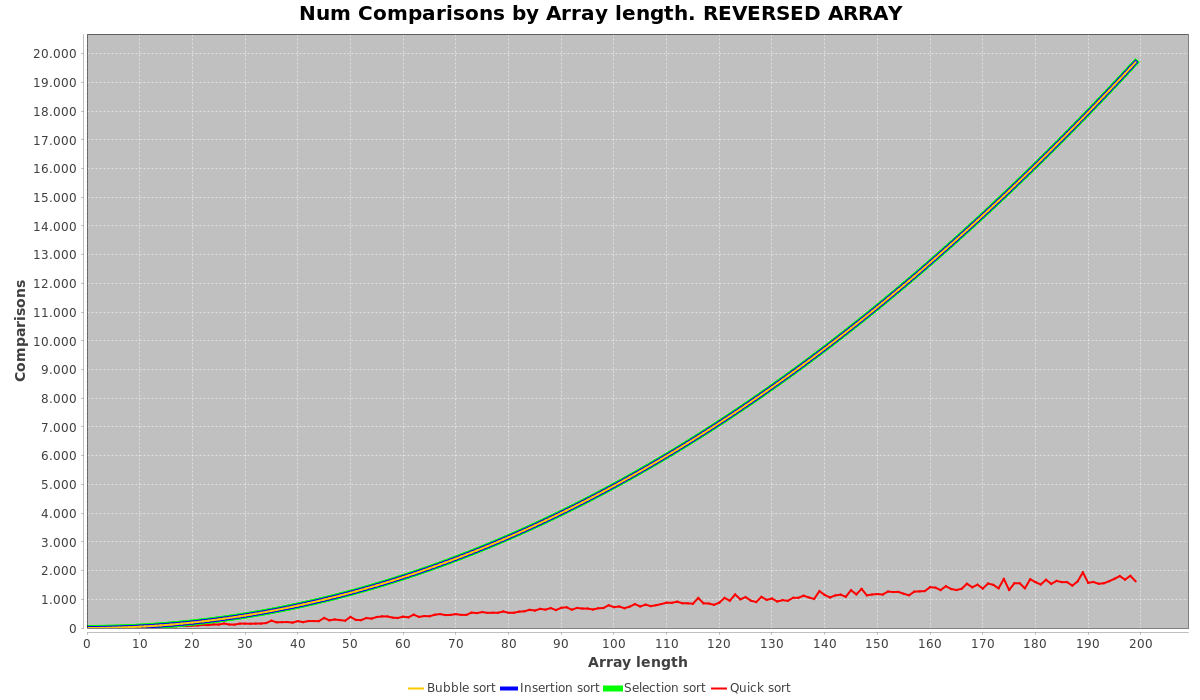
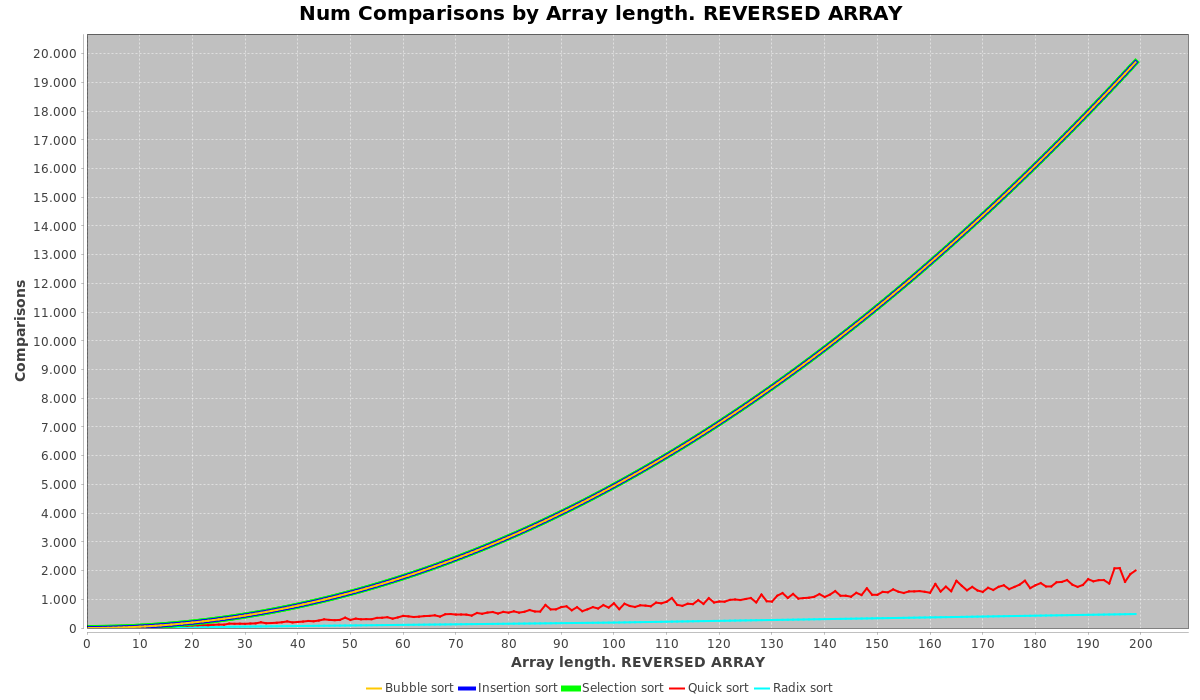
2 charts updated

Changed region(s): [[0.1542, 0.81, 0.9558, 0.9], [0.3083, 0.93, 0.7092, 0.99]]

diff --git a/AlgorithmAnalysis/IntArraySorterCharts.java b/AlgorithmAnalysis/IntArraySorterCharts.java
@@ -53,7 +53,7 @@ public class IntArraySorterCharts {
             testQuickSortAndStoreResults(shuffleGrade, arrayLength, xAxisValue);
             testRadixSortAndStoreResults(shuffleGrade, arrayLength, xAxisValue);
         }
-        buildLinealCharts("Array length");
+        buildLinealCharts("Array length.");
     }
 
     private void testBubbleSortAndStoreResults(int shuffleGrade, int arrayLength, int XAxisData){
